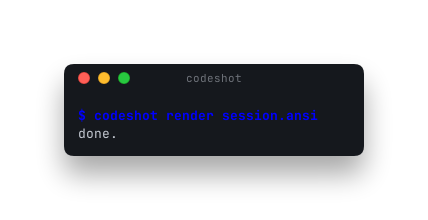
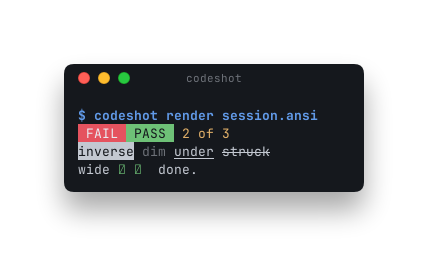
Cover erase-with-background and background runs, and give the goldens colour
Three behaviours that survived mutation with nothing failing.

An erase paints the cells it clears in the background colour that was current
when it happened, so `ESC[41m ESC[2J` leaves a red screen. less's status bar
and any TUI that paints a panel by setting a background and clearing rely on
it, and nothing checked either that the colour survives or that the bold does
not.

The background run-merging pass had no coverage because neither golden
contained a coloured background at all. The new test pins where each run
starts and stops; it does not claim to pin the merging itself, because
mutation shows that filling every cell separately produces byte-identical
output - the fill is draw.Src with a uniform source, so there are no
anti-aliased edges to leave a seam between. The test says so rather than
implying more than it proves.

The styled golden now carries two abutting coloured background runs, inverse,
dim, underline, strikethrough and a wide rune. It catches inverse and dim
regressions that previously passed unnoticed. The wide rune is CJK, which
JetBrains Mono NL does not cover, so it renders as the font's .notdef box -
which is what codeshot genuinely draws today, and pinning it means the day a
fallback font arrives someone has to look at this image again.

Changed region(s): [[0.1822, 0.4091, 0.7593, 0.6818], [0.1519, 0.2455, 0.8505, 0.3818], [0.1519, 0.6818, 0.8505, 0.7636]]

diff --git a/internal/adapters/render/raster/golden_test.go b/internal/adapters/render/raster/golden_test.go
@@ -176,20 +176,104 @@ func TestGoldenShots(t *testing.T) {
 	}
 }
 
+// segment is a run of text in one style: the unit the golden fixtures are
+// built from. wide says every rune in the run is double-width, stated rather
+// than guessed so the fixture does not depend on a width table.
+type segment struct {
+	text  string
+	style domain.Style
+	wide  bool
+}
+
+// goldenLine lays segments out as cells, giving a double-width rune the two
+// cells it occupies - a leading cell holding the rune and a width-0
+// continuation behind it, which is the shape vt/buffer.go produces and the
+// shape the renderer's wide-rune handling expects.
+func goldenLine(cols int, segs ...segment) []domain.Cell {
+	line := make([]domain.Cell, 0, cols)
+	for _, seg := range segs {
+		for _, r := range seg.text {
+			if seg.wide {
+				line = append(line,
+					domain.Cell{Rune: r, Style: seg.style, Width: 2},
+					domain.Cell{Style: seg.style, Width: 0})
+				continue
+			}
+			line = append(line, domain.Cell{Rune: r, Style: seg.style, Width: 1})
+		}
+	}
+	for len(line) < cols {
+		line = append(line, domain.Cell{Rune: ' ', Width: 1})
+	}
+	return line
+}
+
+// goldenWindow builds the two fixtures the golden PNGs are made from. The
+// styled one is deliberately busy: before it was enriched, neither fixture
+// contained a single coloured background, so the run-merging pass, inverse,
+// dim and the two-cell layout of a wide rune were all rendered by code no
+// golden had ever looked at.
+//
+// The wide rune is CJK, which JetBrains Mono NL does not cover, so it comes
+// out as the font's .notdef box. That is not an oversight in the fixture -
+// it is what codeshot genuinely draws today, and the design doc says so
+// (no fallback chain until a later phase). Pinning it means the day a
+// fallback font arrives, this golden changes and someone has to look at it.
 func goldenWindow(styled bool) domain.Window {
 	th := testTheme()
 	th.Background = domain.RGBA{R: 0x15, G: 0x18, B: 0x1D, A: 0xFF}
 	th.Foreground = domain.RGBA{R: 0xC3, G: 0xC8, B: 0xD1, A: 0xFF}
-	line := cells("$ codeshot render session.ansi", domain.Style{})
-	if styled {
-		st := domain.Style{FG: domain.IndexedColor(4)}.Set(domain.AttrBold)
-		line = cells("$ codeshot render session.ansi", st)
-	}
+	// A palette wide enough for the fixture to use more than one hue.
+	// Palette[0] is set explicitly: an unset entry is the zero RGBA, which is
+	// transparent, and text drawn in it vanishes - which is exactly what the
+	// first cut of this fixture did to the text on the green run.
+	th.Palette[0] = domain.RGBA{R: 0x15, G: 0x18, B: 0x1D, A: 0xFF}
+	th.Palette[1] = domain.RGBA{R: 0xE5, G: 0x53, B: 0x5F, A: 0xFF}
+	th.Palette[2] = domain.RGBA{R: 0x6E, G: 0xC1, B: 0x77, A: 0xFF}
+	th.Palette[3] = domain.RGBA{R: 0xE0, G: 0xAF, B: 0x68, A: 0xFF}
+	th.Palette[4] = domain.RGBA{R: 0x61, G: 0x9A, B: 0xE8, A: 0xFF}
+	th.Palette[7] = domain.RGBA{R: 0xE8, G: 0xEC, B: 0xF2, A: 0xFF}
+
+	const cols = 34
 	c := domain.DefaultChrome()
 	c.Scale = 1
 	c.Title = "codeshot"
+
+	var lines [][]domain.Cell
+	if !styled {
+		lines = [][]domain.Cell{
+			cells("$ codeshot render session.ansi", domain.Style{}),
+			cells("done.", domain.Style{}),
+		}
+	} else {
+		bold := domain.Style{FG: domain.IndexedColor(4)}.Set(domain.AttrBold)
+		// A background run three cells wide, with a second run of a different
+		// colour hard against it, so the boundary between two fills is in the
+		// picture and not only in a unit test.
+		onRed := domain.Style{FG: domain.IndexedColor(7), BG: domain.IndexedColor(1)}
+		onGreen := domain.Style{FG: domain.IndexedColor(0), BG: domain.IndexedColor(2)}
+		lines = [][]domain.Cell{
+			goldenLine(cols, segment{text: "$ codeshot render session.ansi", style: bold}),
+			goldenLine(cols,
+				segment{text: " FAIL ", style: onRed},
+				segment{text: " PASS ", style: onGreen},
+				segment{text: " 2 of 3", style: domain.Style{FG: domain.IndexedColor(3)}}),
+			goldenLine(cols,
+				segment{text: "inverse", style: domain.Style{}.Set(domain.AttrInverse)},
+				segment{text: " "},
+				segment{text: "dim", style: domain.Style{}.Set(domain.AttrDim)},
+				segment{text: " "},
+				segment{text: "under", style: domain.Style{}.Set(domain.AttrUnderline)},
+				segment{text: " "},
+				segment{text: "struck", style: domain.Style{}.Set(domain.AttrStrike)}),
+			goldenLine(cols,
+				segment{text: "wide ", style: domain.Style{}},
+				segment{text: "\u65e5\u672c", style: domain.Style{FG: domain.IndexedColor(2)}, wide: true},
+				segment{text: " done.", style: domain.Style{}}),
+		}
+	}
 	return domain.Window{
-		Frame:  domain.Frame{Grid: domain.Grid{Cols: 34, Lines: [][]domain.Cell{line, cells("done.", domain.Style{})}}},
+		Frame:  domain.Frame{Grid: domain.Grid{Cols: cols, Lines: lines}},
 		Theme:  th,
 		Chrome: c,
 	}

diff --git a/internal/adapters/render/raster/text_test.go b/internal/adapters/render/raster/text_test.go
@@ -205,3 +205,57 @@ func countNonBackground(img *image.RGBA) int {
 	}
 	return n
 }
+
+// TestBackgroundRunsCoverExactlyTheirCells pins the run-merging pass the
+// design doc calls out by name. Neither golden fixture contained a coloured
+// background at all before this, so the whole pass was uncovered.
+//
+// One honest caveat, established by mutation rather than assumed: removing
+// the merging entirely and filling every cell on its own produces
+// byte-identical output, because the fill is draw.Src with a uniform source
+// and so has no anti-aliased edges to leave a seam between. So no test can
+// tell merged fills from per-cell fills, and this one does not pretend to.
+// What it does pin is the arithmetic the merging pass computes - where each
+// run starts and stops - which is where an actual bug would live: a run that
+// stops a cell early leaves an unpainted stripe, one that runs a cell long
+// paints over its neighbour, and both are invisible until someone puts a
+// coloured background next to another one.
+func TestBackgroundRunsCoverExactlyTheirCells(t *testing.T) {
+	set, _ := fonts.Embedded()
+	m, _ := set.Metrics(DefaultOptions().FontSize, DefaultOptions().LineHeight)
+	red := domain.Style{BG: domain.IndexedColor(1)}
+	blue := domain.Style{BG: domain.IndexedColor(4)}
+
+	line := make([]domain.Cell, 10)
+	for i := range line {
+		line[i] = domain.Cell{Rune: ' ', Width: 1}
+	}
+	for i := 2; i < 5; i++ {
+		line[i].Style = red
+	}
+	for i := 5; i < 7; i++ {
+		line[i].Style = blue
+	}
+	img := render(t, bare(domain.Grid{Cols: 10, Lines: [][]domain.Cell{line}}, testTheme()))
+
+	want := func(x int) (r, g, b uint32) {
+		switch cell := x / m.CellW; {
+		case cell >= 2 && cell < 5:
+			return 0xFFFF, 0, 0
+		case cell >= 5 && cell < 7:
+			return 0, 0, 0xFFFF
+		default:
+			return 0, 0, 0 // the theme's own background
+		}
+	}
+	for y := 0; y < m.CellH; y++ {
+		for x := 0; x < 10*m.CellW; x++ {
+			wr, wg, wb := want(x)
+			r, g, b, _ := img.At(x, y).RGBA()
+			if r != wr || g != wg || b != wb {
+				t.Fatalf("pixel (%d,%d) in cell %d = %d,%d,%d, want %d,%d,%d: a background run does not line up with its cells",
+					x, y, x/m.CellW, r, g, b, wr, wg, wb)
+			}
+		}
+	}
+}

diff --git a/internal/adapters/vt/csi_test.go b/internal/adapters/vt/csi_test.go
@@ -177,3 +177,37 @@ func TestColonSubParametersDoNotBecomeParameters(t *testing.T) {
 		t.Error("4:3 turned on italic; the sub-parameter 3 was read as a parameter of its own")
 	}
 }
+
+// TestEraseFillsWithTheCurrentBackground pins behaviour real programs depend
+// on and nothing checked: an erase paints the cells it clears in whatever
+// background colour is current, so `ESC[41m ESC[2J` leaves a red screen, not
+// a default-coloured one. less's status bar, and any TUI that paints a panel
+// by setting a background and clearing, is built on this. blank() keeps the
+// background and drops every other attribute, so the check below is two
+// assertions, not one: the colour survives and the bold does not.
+func TestEraseFillsWithTheCurrentBackground(t *testing.T) {
+	red := domain.IndexedColor(1)
+	t.Run("erase in display", func(t *testing.T) {
+		e := New(4, 2)
+		e.Write([]byte("\x1b[1;41m\x1b[2J"))
+		for y, line := range e.Result().Main.Lines {
+			for x, cell := range line {
+				if cell.Style.BG != red {
+					t.Fatalf("cell (%d,%d) background = %+v, want the red that was current when it was erased", x, y, cell.Style.BG)
+				}
+				if cell.Style.Has(domain.AttrBold) {
+					t.Fatalf("cell (%d,%d) kept its bold; an erased cell holds the background and nothing else", x, y)
+				}
+			}
+		}
+	})
+	t.Run("erase in line", func(t *testing.T) {
+		e := New(4, 2)
+		e.Write([]byte("abcd\x1b[41m\x1b[1;1H\x1b[K"))
+		for x, cell := range e.Result().Main.Lines[0] {
+			if cell.Style.BG != red {
+				t.Fatalf("cell %d background = %+v, want red", x, cell.Style.BG)
+			}
+		}
+	})
+}
